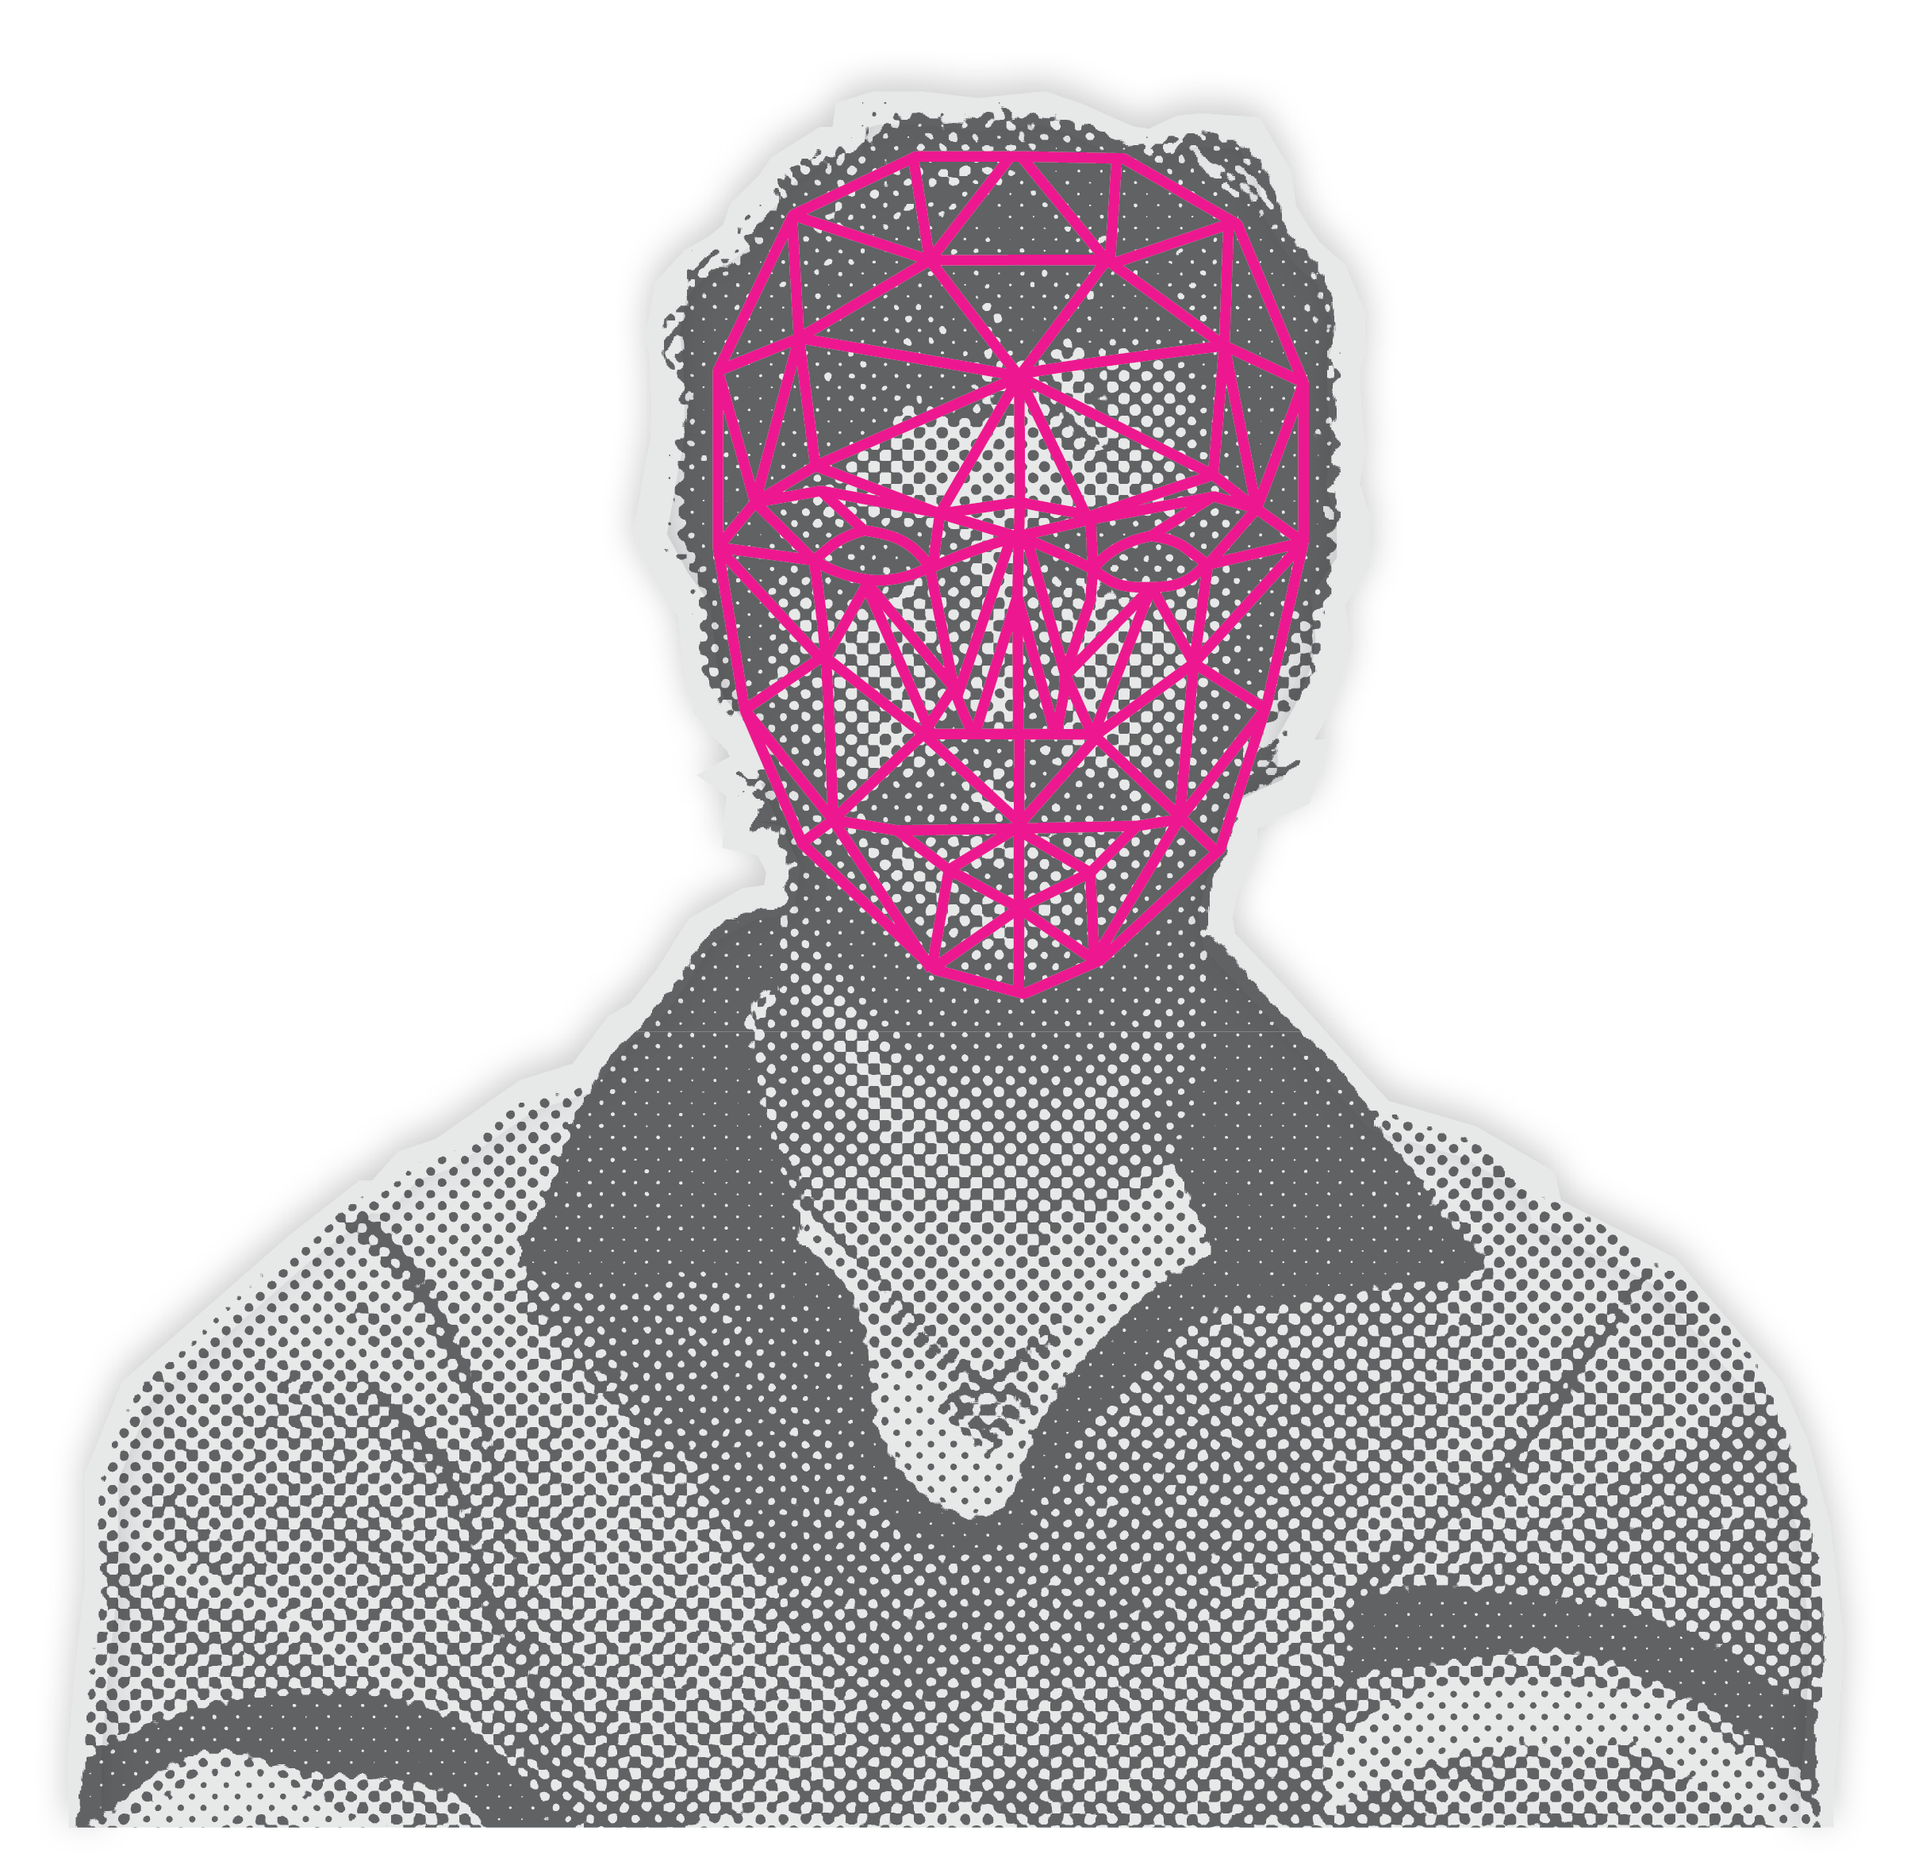
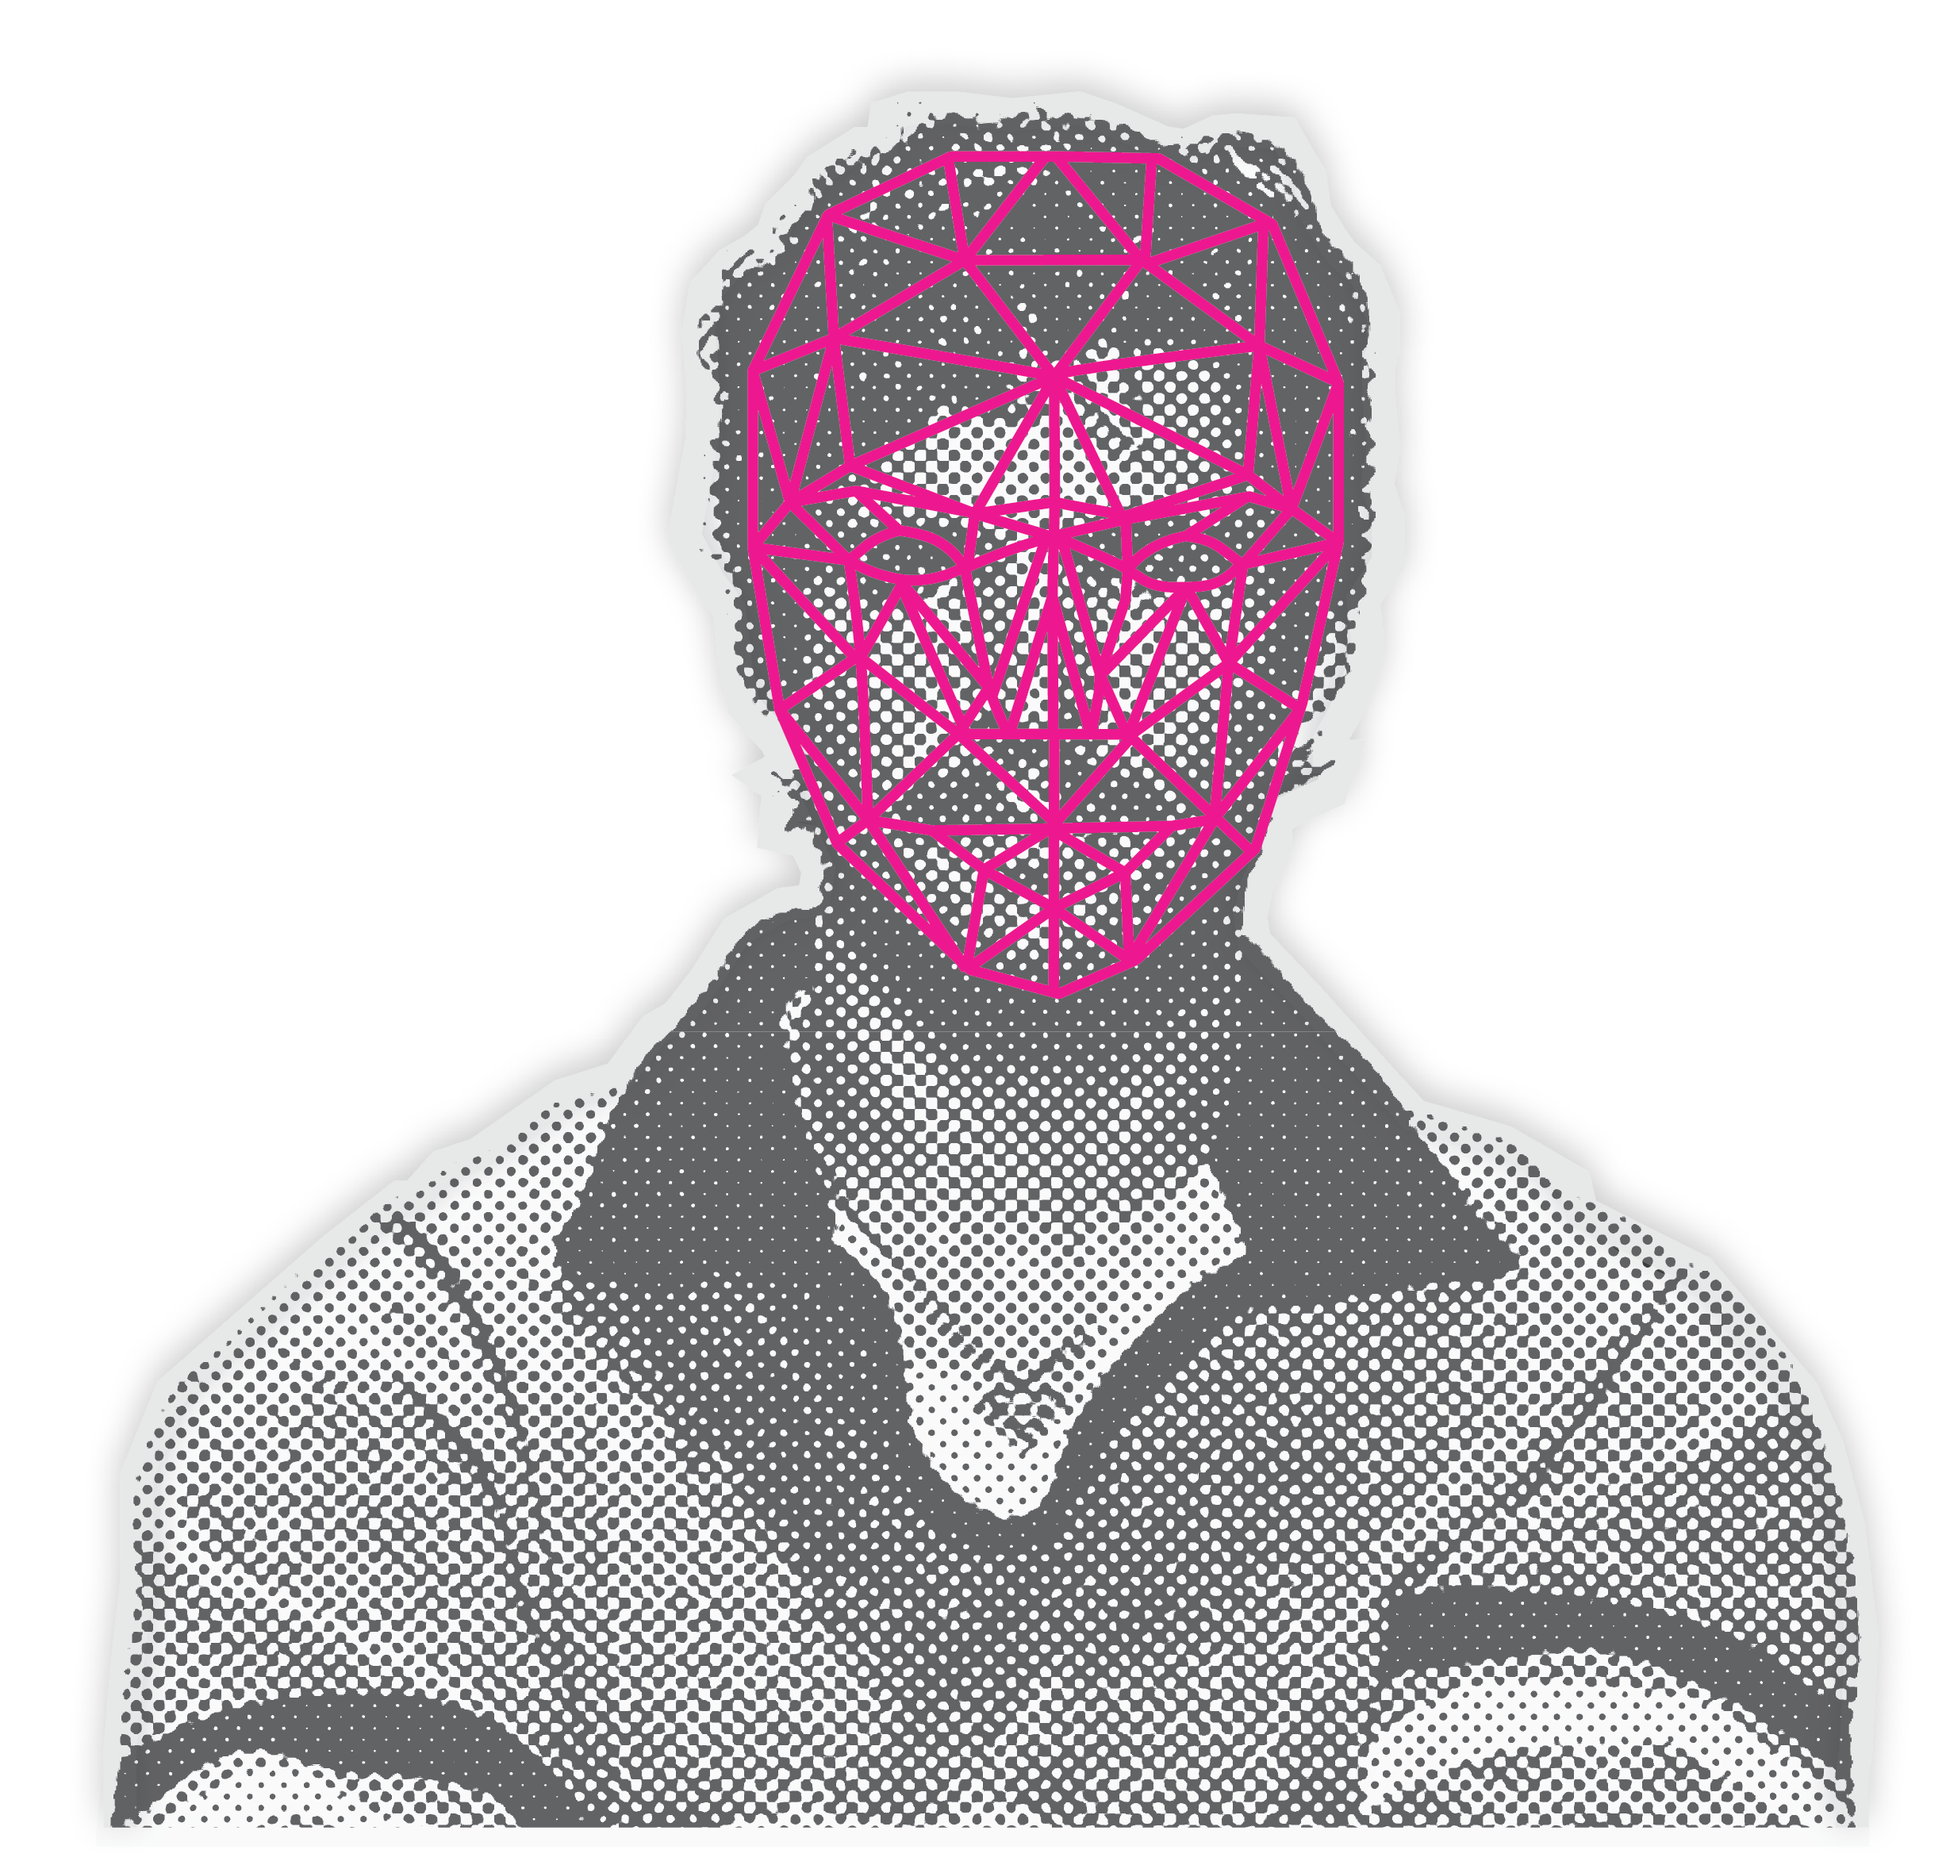
webcam

Changed region(s): [[0.0311, 0.0621, 0.9651, 0.9936], [0.6849, 0.5589, 0.7161, 0.59]]

diff --git a/index.html b/index.html
@@ -44,33 +44,31 @@
         </div>
 
 
-
-        <div class="container">
-            <div class="width50 vistitle">
-                Visibility is <br>
-                Control  
-            </div>
-            
-            <div class="width50 vistext">
+        <div class="text-section1">
+            <div class="vistext">
                 <p>
                     Surveillance was once imagined as a distant dystopia. A world where screens watched back and voices were never entirely private. In Nineteen Eighty-Four, observation was constant and invisible, embedded into the architecture of everyday life. Citizens could never know when they were being watched, only that they might be.
                 </p>
-
                 <p>
                     Today the mechanisms are quieter, but the logic remains familiar. Cameras line streets and buildings, algorithms trace behaviour, and systems quietly record the rhythms of daily life. Observation no longer feels extraordinary. It has become part of the background.
                 </p>
-
                 <p>
-                    What Orwell understood was not simply the danger of technology, but the psychology of being watched. When visibility becomes permanent, behaviour changes. People learn to regulate themselves, adjusting actions and words in response to the possibility of observation.
-                </p>
-            </div>
-
+                    What Orwell understood was not simply the danger of technology, but the psychology of being watched. When visibility becomes permanent, behaviour changes. People learn to regulate themselves, adjusting actions and words in response to the possibility of observation.                </p>
         </div>
+
        
         <div class="eyeimg2"><img src="eye.png" alt="eye"></div>
 
-        <div class="quote">
-            “There was no way of knowing whether you were being watched.”
+
+        <div class="quote-container">
+            <div class="quote">
+                “There was no way of knowing whether you were being watched.”
+            </div>div>    
+
+            <div class="side-note1">
+                GEORGE ORWELL, 1984
+            </div>   
+        </div> 
 
         </div>
 
@@ -119,13 +117,33 @@
             </div>
         </div>    
         
-        <div class="tv"><img src="tv.png" alt="tv"></div>
+
+        <div class="tv-container">
+                <video id="webcam" autoplay playsinline></video>
+                <img src="tv.png" class="tv-frame">
+        </div>
+
+        <script>
+            const video = document.getElementById("webcam");
+
+            navigator.mediaDevices.getUserMedia({ video: true })
+            .then(stream => {
+                video.srcObject = stream;
+            })
+            .catch(err => {
+                console.log("Camera error:", err);
+            });
+        </script>
+
+        
 
         <div class="box5">
-            Good good <br> 
-            morning [enter name]<br>
+            Good good <br>
+            morning
+            <input type="text" id="username" placeholder="ENTER NAME">
+            <br>
             I can see you you<br>
-            you you you you <br>  
+            you you you you <br>
             you you you <br>
             you you you you <br>
             you
@@ -246,28 +264,30 @@
         <div class="surveillance-layout">
 
             <div class="box12 width25">
-                Good good <br> 
-                morning [enter name]<br>
-                We can see you you<br>
-                you you you you <br>  
-                you you you <br>
-                you you you you <br>
-                you
+                SYS.LOG.2048 <br>
+                <span class="highlight">COORD: 37.8136 S</span> <br>
+                <span class="highlight">COORD: 144.9631 E</span> <br>
+                CAM_01_ACTIVE <br>
+                <span class="highlight">CAM_03_FEED_LIVE</span> <br>
+                SUBJECT_ID: 00491 <br>
+                FRAME_CAPTURED <br>
+                ARCHIVE_NODE_7 <br>
+                DATA_PACKET_RECEIVED <br>
+                <span class="highlight">BIOMETRIC_SCAN_ACTIVE</span> <br>
+                <span class="highlight">PATTERN_MATCH_DETECTED</span> <br>
+                <span class="highlight">SUBJECT_TAGGED</span>
             </div>
 
             <div class="box13 width25">
-                SYS.LOG.2048 <br> 
-                COORD: 37.8136 S <br> 
-                COORD: 144.9631 E <br> 
-                CAM_01_ACTIVE <br> 
-                CAM_03_FEED_LIVE <br> 
-                SUBJECT_ID: 00491 <br> 
-                FRAME_CAPTURED <br> 
-                ARCHIVE_NODE_7 <br> 
-                DATA_PACKET_RECEIVED <br> 
-                BIOMETRIC_SCAN_ACTIVE <br> 
-                PATTERN_MATCH_DETECTED <br> 
-                SUBJECT_TAGGED
+            Good good <br>
+            morning
+            <input type="text" id="username" placeholder="ENTER NAME">
+            <br>
+            We can see you you<br>
+            you you you you <br>
+            you you you <br>
+            you you you you <br>
+            you
             </div>
 
             <div class="codeimg width50">
@@ -276,6 +296,7 @@
 
         </div>
 
+        
 
     <script>
 

diff --git a/style.css b/style.css
@@ -18,6 +18,7 @@ img{
     src: url(harmoniasansregular.woff) format("woff");
 }
 
+
 .rec-header {
     position: fixed;
     top: 0;
@@ -27,7 +28,7 @@ img{
     font-family: "alt";
     font-size: 18px;
     padding: 15px 20px;
-    z-index: 9999;
+    z-index: 999999;
     backdrop-filter: blur(5px);
 }
 
@@ -59,6 +60,7 @@ img{
     line-height: 26px;
     letter-spacing: 1px;
     text-transform: uppercase;
+    z-index: 999;
 }
 
 
@@ -131,27 +133,27 @@ div.width50 {
     width: 40%;
 }
 
+div.text-section1 {
+    position: relative;
+    width: 100%;
+}
+
 div.vistext {
     color: #e6e6e6;
     font-family:"harm";
-    font-size: 20px;
+    font-size: 40px;
     text-indent: 40px;
-    margin-bottom: 16px; 
     line-height: 1.5; 
     text-align: justify;
+    margin-top: 300px;
+    margin-bottom: 300px;
+    margin-left: 150px;
+    margin-right: 150px;
 
 }
 
-div.vistitle {
-    color: #e6e6e6;
-    font-family:"alt";
-    font-size: 100px;
-    text-transform: uppercase;
-    padding-left: 130px;
-    padding-top: 290px;
-    line-height: 0.75;
-    text-indent: 40px;
-   
+.quote-container {
+    position: relative;
 }
 
 div.quote {
@@ -165,6 +167,21 @@ div.quote {
     padding-left: 130px;
     padding-right: 400px;
 }
+
+.side-note1 {
+    position: absolute;
+    top: 10;
+    right: 350px;
+    font-family: "harm";
+    font-size: 14px;
+    color: #e6e6e6;
+    letter-spacing: 2px;
+    text-transform: uppercase;
+    max-width: 150px;
+    writing-mode: vertical-rl;
+    text-orientation: mixed;
+}
+
 
 .eyeimg2 img {
     width: 12%;
@@ -182,7 +199,7 @@ div.box1 {
     font-style: italic;
     text-transform: uppercase;
     margin-left: 130px;
-    margin-top: 400px;
+    margin-top: 300px;
     
 }
 
@@ -278,13 +295,6 @@ div.eyeimg4 {
     
 }
 
-div.camimg {
-    width: 50%;
-    height: auto;
-    margin-left: -10px;
-    margin-top: 100px;
-    
-}
 
 div.eyeimg5 {
     width: 7%;
@@ -322,6 +332,8 @@ div.cctv1 {
     height: auto;
     margin-top: 300px;
     margin-left: -10px;
+    position: relative;
+    z-index: 1;
     
     
 }
@@ -331,6 +343,8 @@ div.cctv2 {
     height: auto;
     margin-top: 300px;
     margin-left: 247.5px;
+    position: relative;
+    z-index: 1;
     
     
 }
@@ -465,7 +479,7 @@ div.box12 {
     line-height: 30px;
     font-style: italic;
     text-transform: uppercase;
-    margin-top: 200px;
+    margin-top: 800px;
     
 }
 
@@ -479,3 +493,72 @@ div.box13 {
     margin-top: 200px;
    
 }
+
+#username {
+    background: transparent;
+    border: none;
+    color: #e6e6e6;
+    font-family: "harm";
+    font-size: inherit;
+    outline: none;
+    width: 140px;
+}
+
+#username {
+    animation: flashPlaceholder 1s infinite;
+}
+
+#username:focus,
+#username:not(:placeholder-shown) {
+    animation: none;
+}
+
+
+#username::placeholder {
+    color: #ff0099;
+    animation: flashPlaceholder 1s infinite;
+    opacity: 1;
+}
+
+@keyframes flashPlaceholder {
+    50% {
+        opacity: 0;
+    }
+}
+
+.highlight {
+    color: #42529f;
+}
+
+.tv-container {
+  position: fixed;
+  bottom: 20px;
+  right: 20px;
+  width: 320px; 
+  z-index: 9999
+}
+
+
+.tv-frame {
+  width: 100%;
+  position: relative;
+  z-index: 1000;
+  pointer-events: none;
+}
+
+
+#webcam {
+  position: absolute;
+  top: 18%;
+  left: 15%;
+  width: 70%;
+  height: 55%;
+  object-fit: cover;
+  z-index: 999;
+  filter: grayscale(1) contrast(2) brightness(0.6);;
+  transform: translateZ(0);;
+}
+
+
+
+
